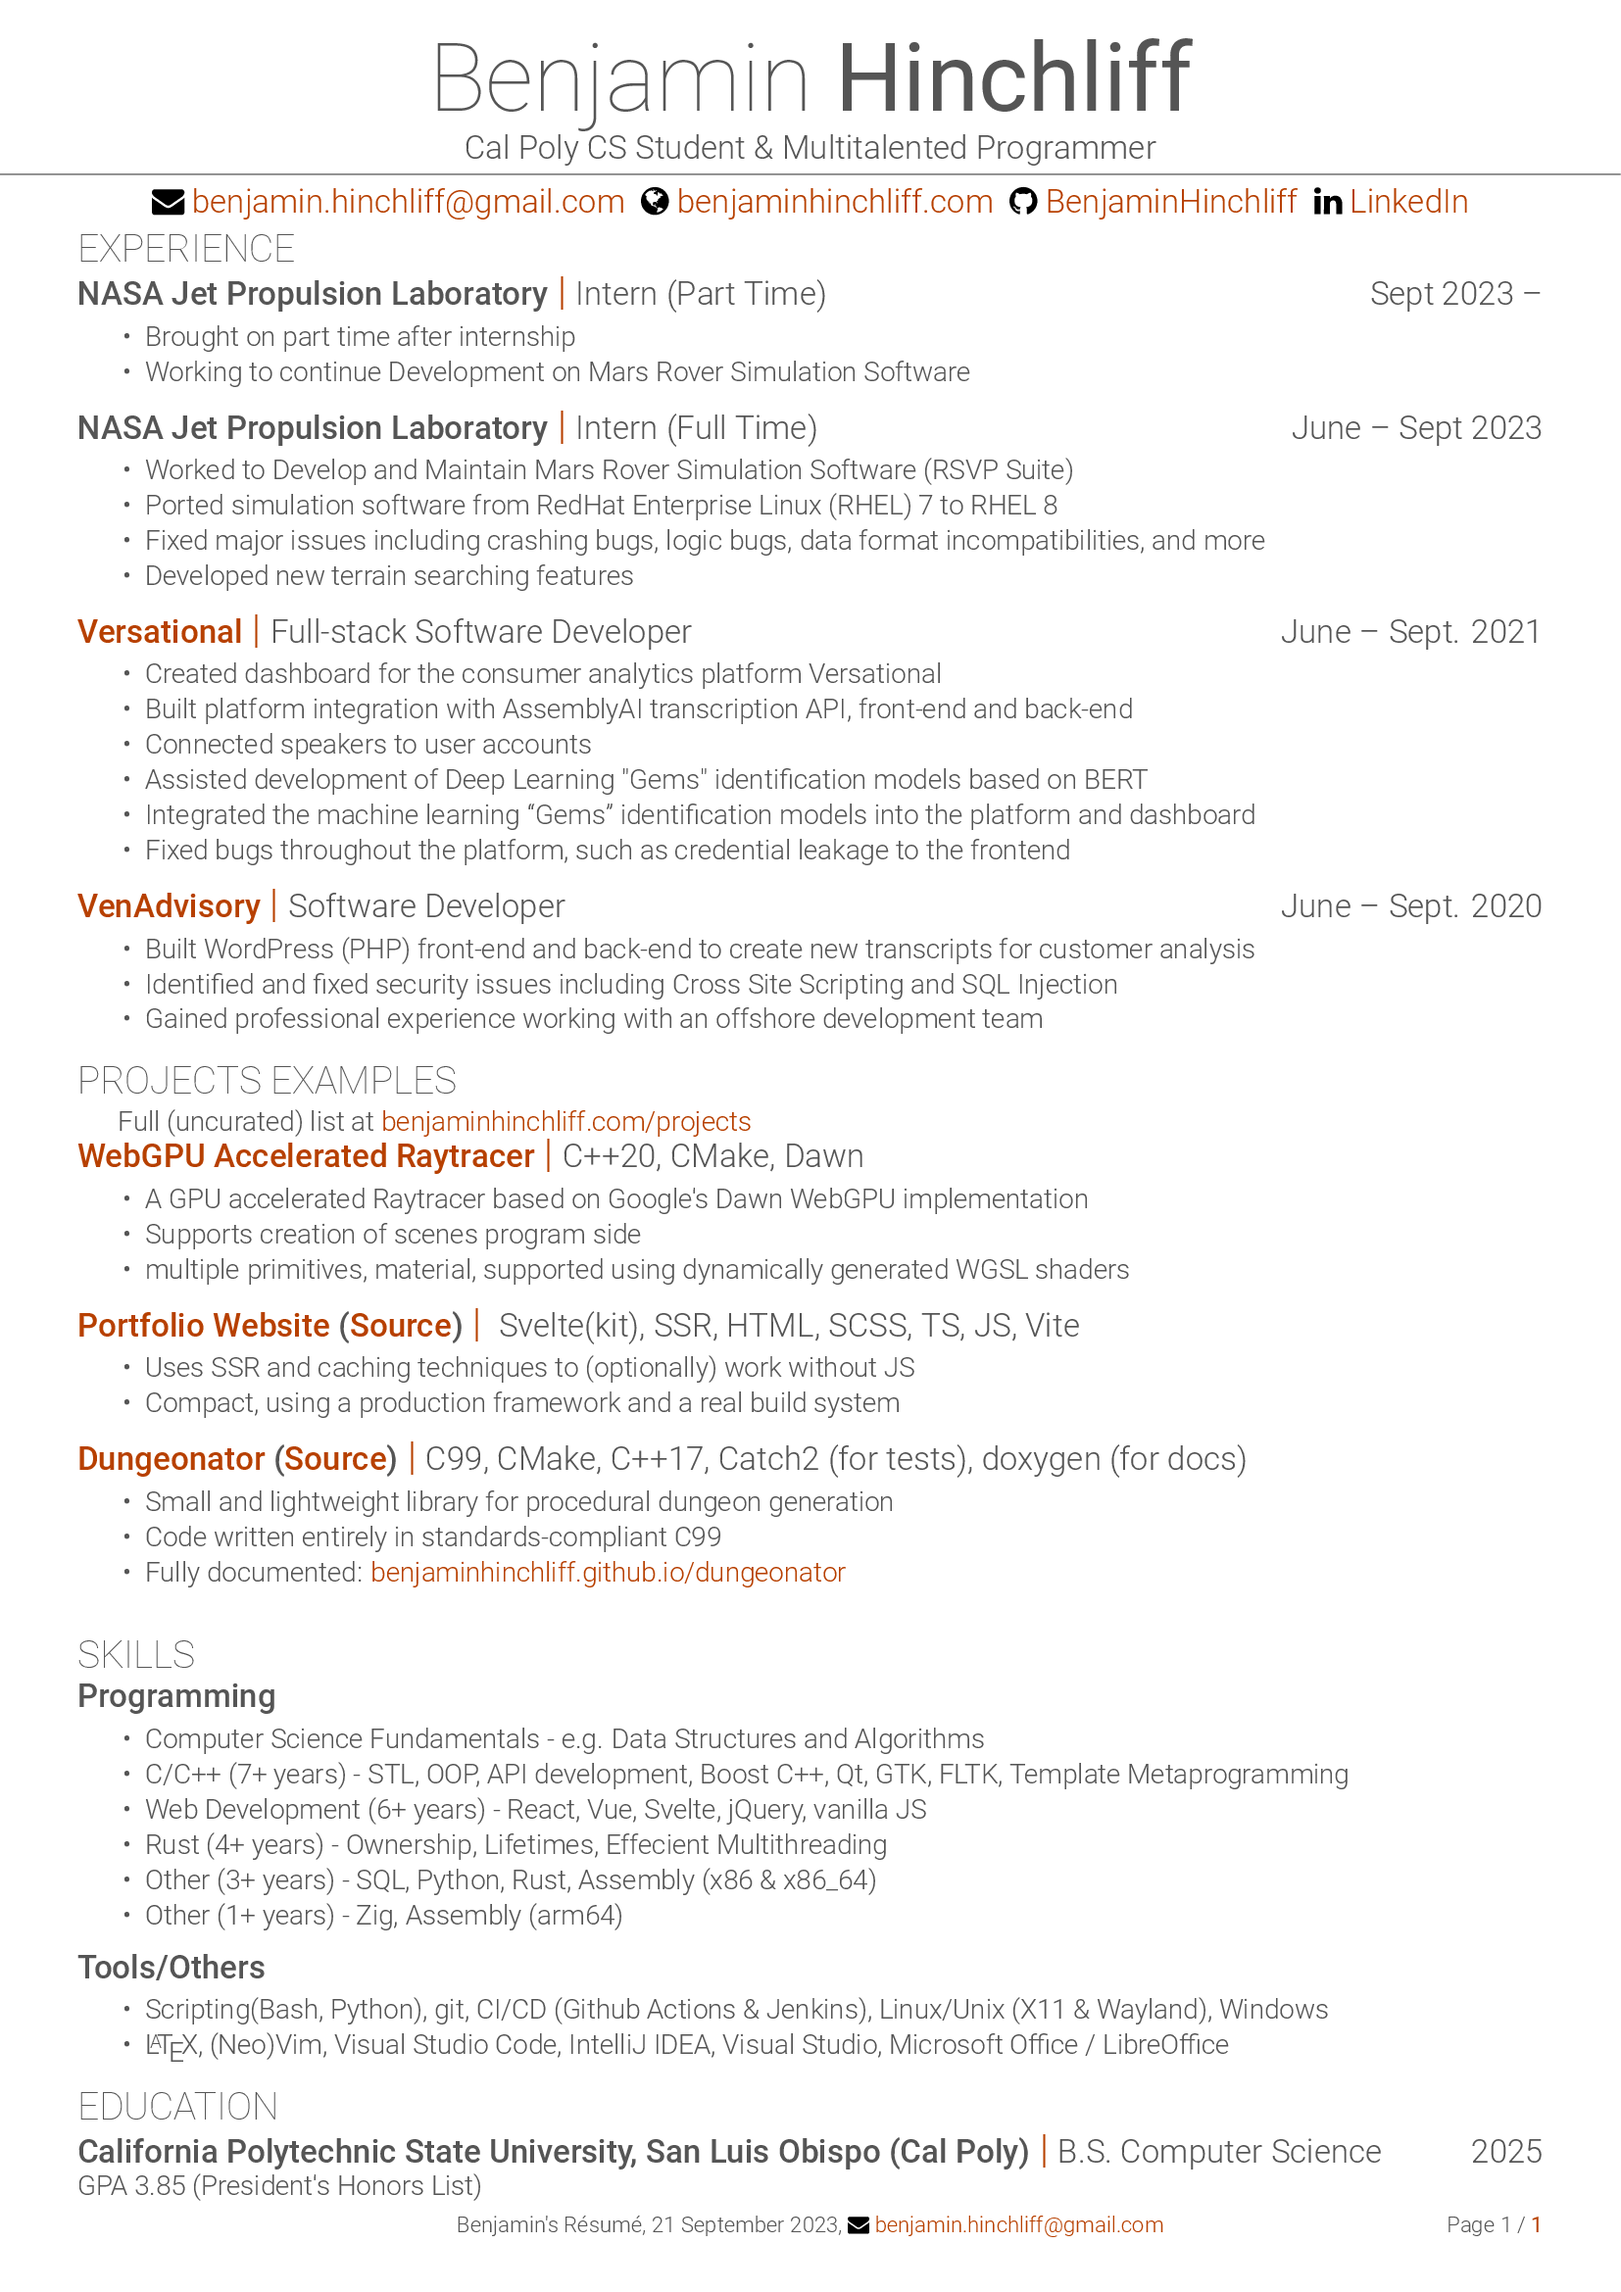
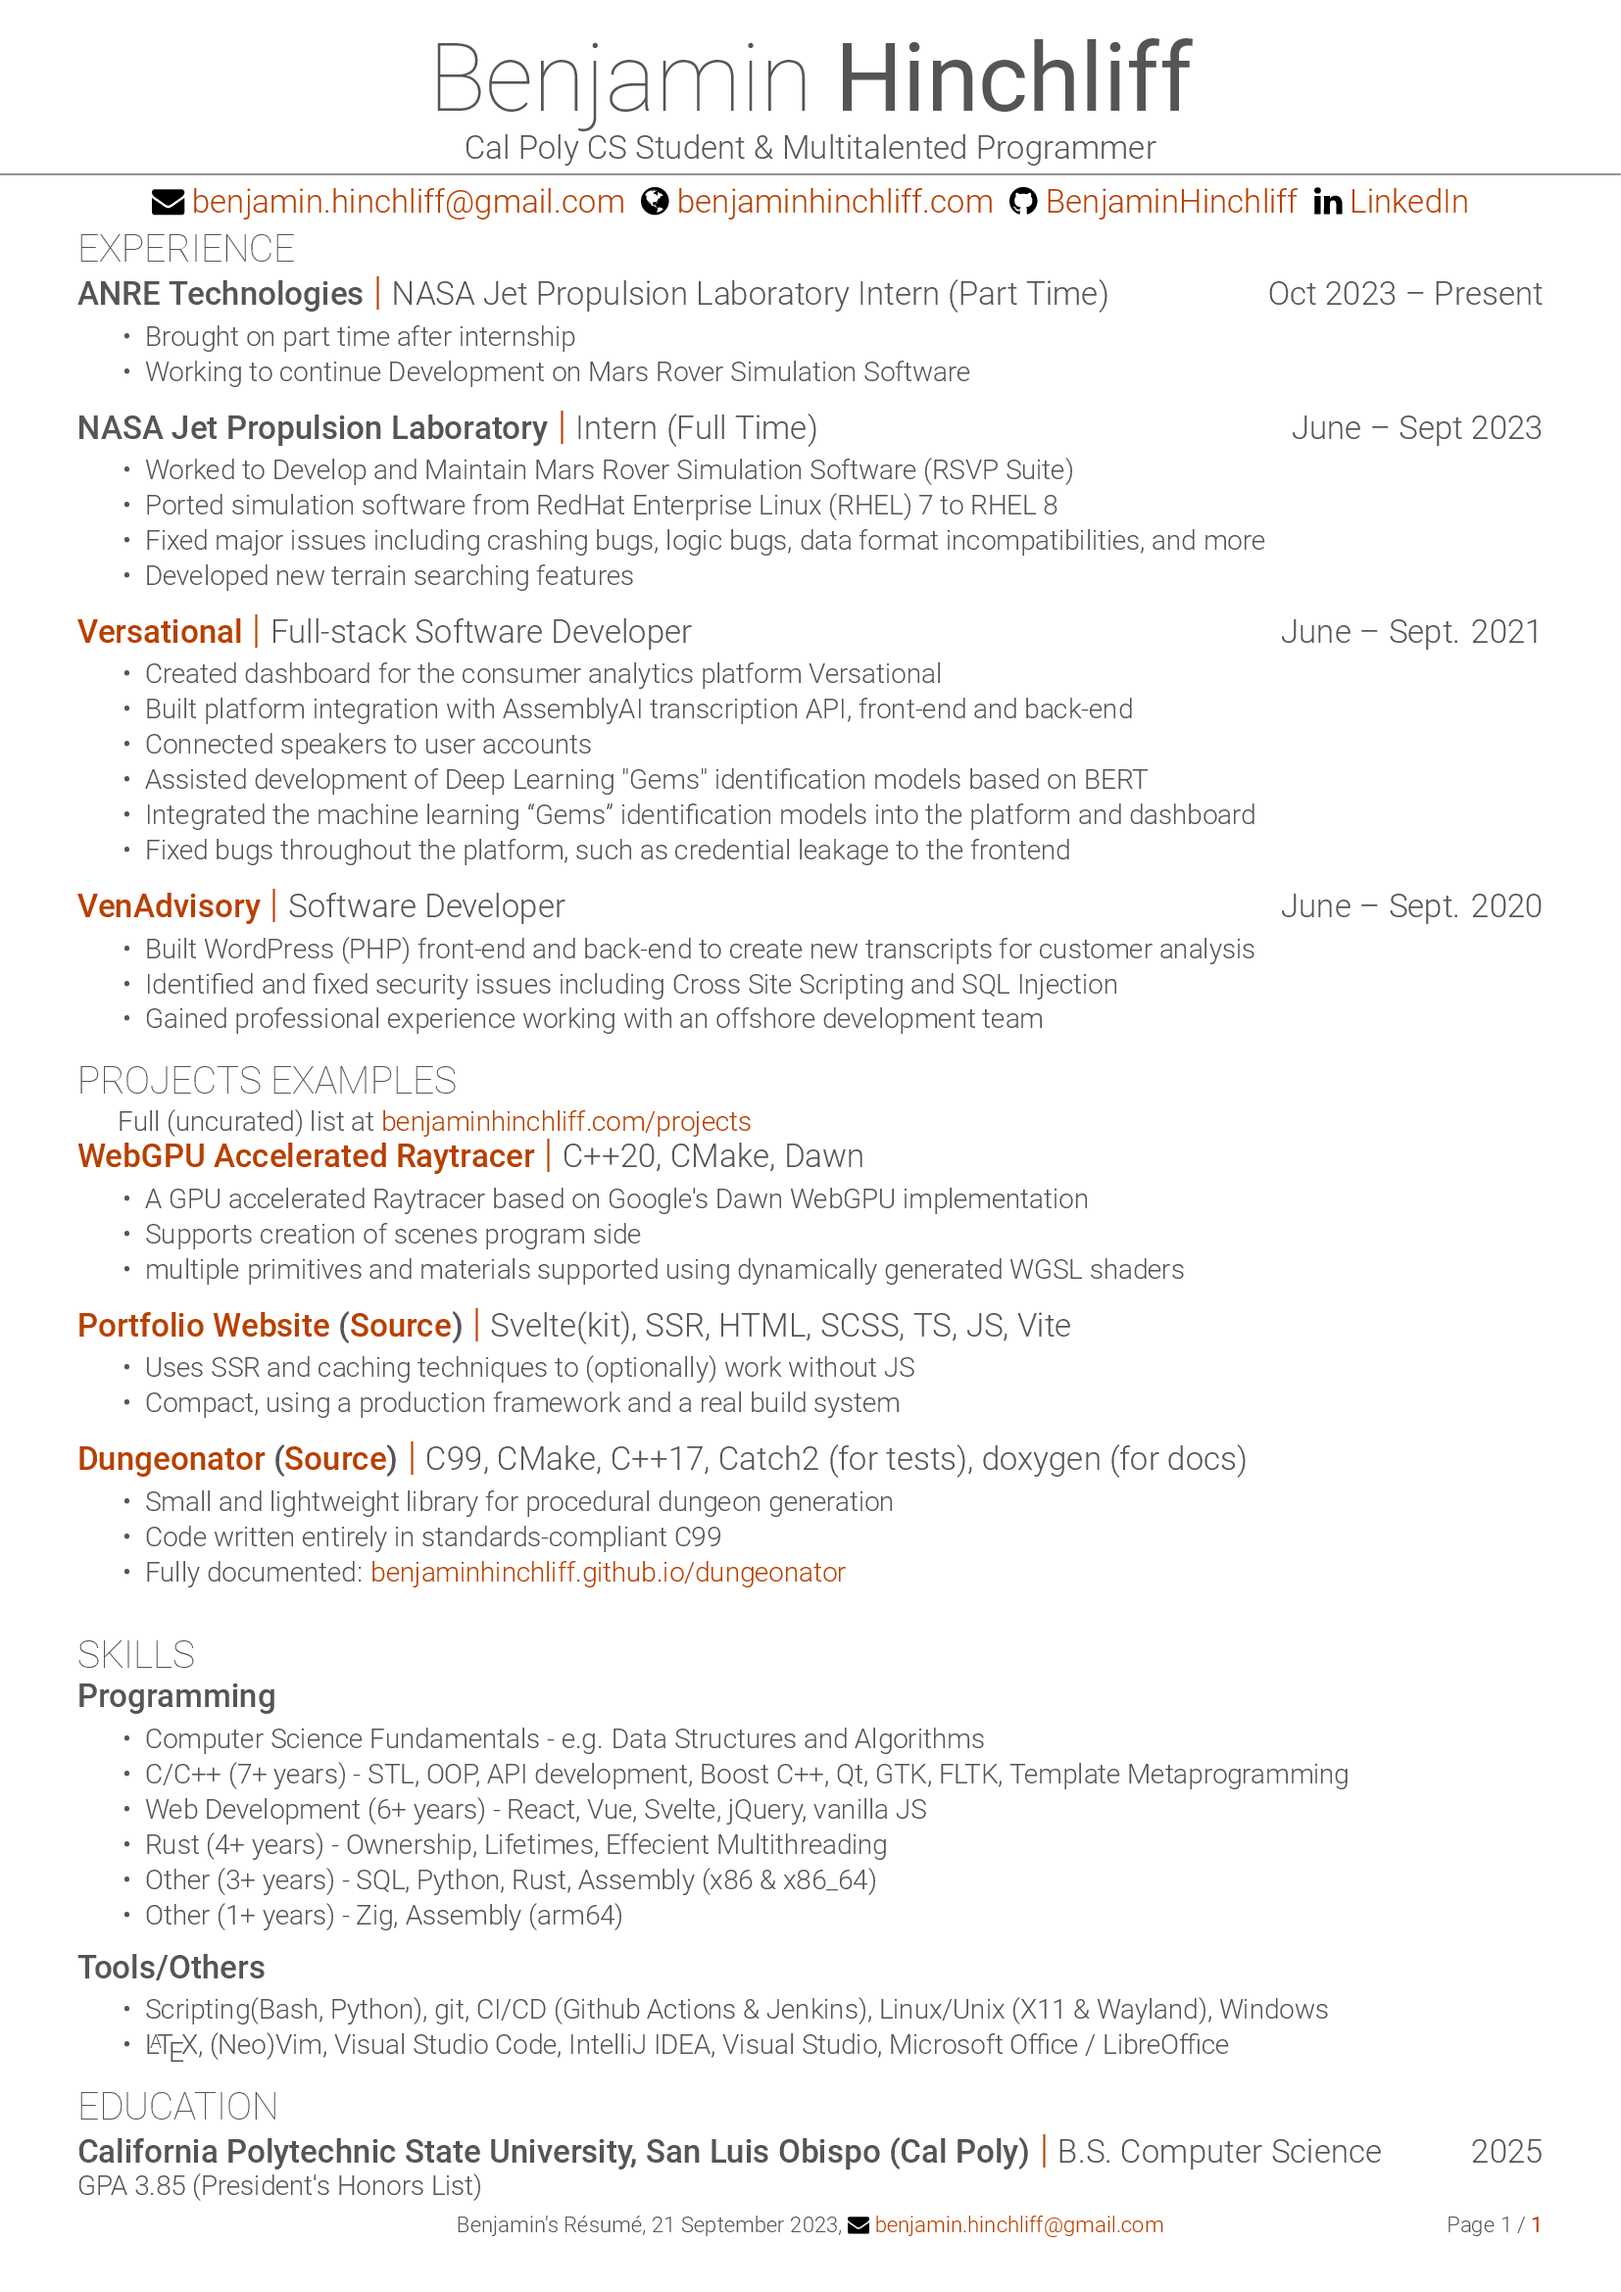
tweak naming of part time internship

diff --git a/resume.tex b/resume.tex
@@ -16,7 +16,7 @@
 \section{Experience}
 
 
-\combosection{NASA Jet Propulsion Laboratory}{Intern (Part Time)}{Sept 2023 \textendash}{
+\combosection{ANRE Technologies}{NASA Jet Propulsion Laboratory Intern (Part Time)}{Oct 2023 \textendash{} Present}{
   \begin{tightlist}
   \item Brought on part time after internship
   \item Working to continue Development on Mars Rover Simulation Software
@@ -58,11 +58,11 @@ Full (uncurated) list at \href{https://benjaminhinchliff.com/projects}{benjaminh
   \begin{tightlist}
   \item A GPU accelerated Raytracer based on Google's Dawn WebGPU implementation
   \item Supports creation of scenes program side
-  \item multiple primitives, material, supported using dynamically generated WGSL shaders
+  \item multiple primitives and materials supported using dynamically generated WGSL shaders
   \end{tightlist}
 }
 
-\combosection{\href{https://www.benjaminhinchliff.com}{Portfolio Website} (\href{https://github.com/BenjaminHinchliff/4neo4finch}{Source})}{ Svelte(kit), SSR, HTML, SCSS, TS, JS, Vite}{}{
+\combosection{\href{https://www.benjaminhinchliff.com}{Portfolio Website} (\href{https://github.com/BenjaminHinchliff/4neo4finch}{Source})}{Svelte(kit), SSR, HTML, SCSS, TS, JS, Vite}{}{
   \begin{tightlist}
   \item Uses SSR and caching techniques to (optionally) work without JS
   \item Compact, using a production framework and a real build system
